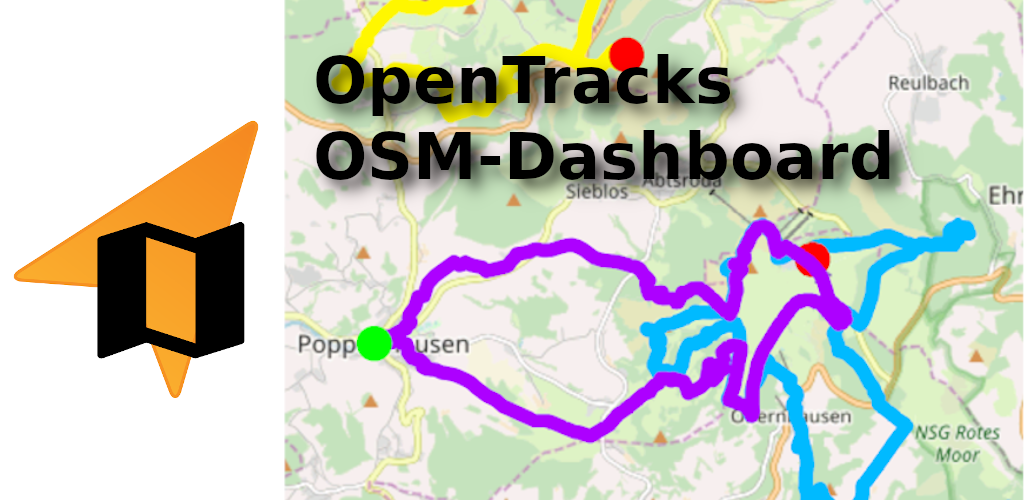
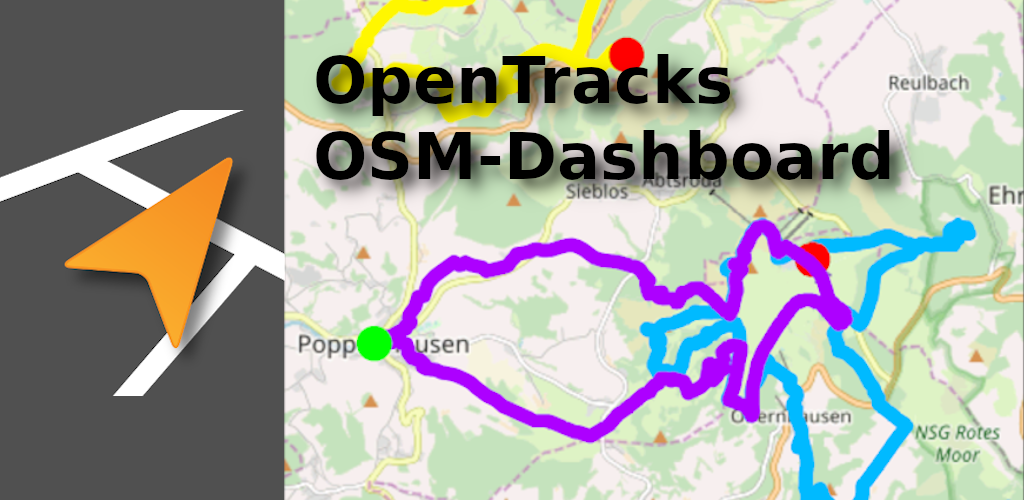
cleanup after merge
- update changelog
- update version
- update toolbar icon of DownloadMapActivity
- update feature graphic

Changed region(s): [[0.0, 0.0, 0.2812, 1.0]]

diff --git a/src/main/java/de/storchp/opentracks/osmplugin/MainActivity.java b/src/main/java/de/storchp/opentracks/osmplugin/MainActivity.java
@@ -34,11 +34,6 @@ public class MainActivity extends BaseActivity {
     }
 
     @Override
-    protected void onOnlineMapConsentChanged(final boolean consent) {
-        // nothing to do
-    }
-
-    @Override
     void recreateMap(final boolean menuNeedsUpdate) {
         // main activity doesn't have a map, just invalidate the menu
         if (menuNeedsUpdate) {

diff --git a/README.md b/README.md
@@ -1,4 +1,4 @@
-# <img src="assets/LOGO.svg" alt="OpenTracks logo" height="40"></img> OpenTracks - OSM Dashboard
+# <img src="assets/LOGO2.svg" alt="OpenTracks logo" height="40"></img> OpenTracks - OSM Dashboard
 
 _OSM Dashboard_ is a companion application for [OpenTracks](https://github.com/OpenTracksApp/OpenTracks).
 It adds the functionality to show tracks on a map using data from [OpenStreetMap](https://www.openstreetmap.org).
@@ -31,7 +31,6 @@ OSM Dashboard updates the provided data from OpenTracks in real-time.
     
 __Required permissions:__
 * _INTERNET_: required for online maps
-* _READ_EXTERNAL_STORAGE_: required for offline maps
 
 ## Maps
 
